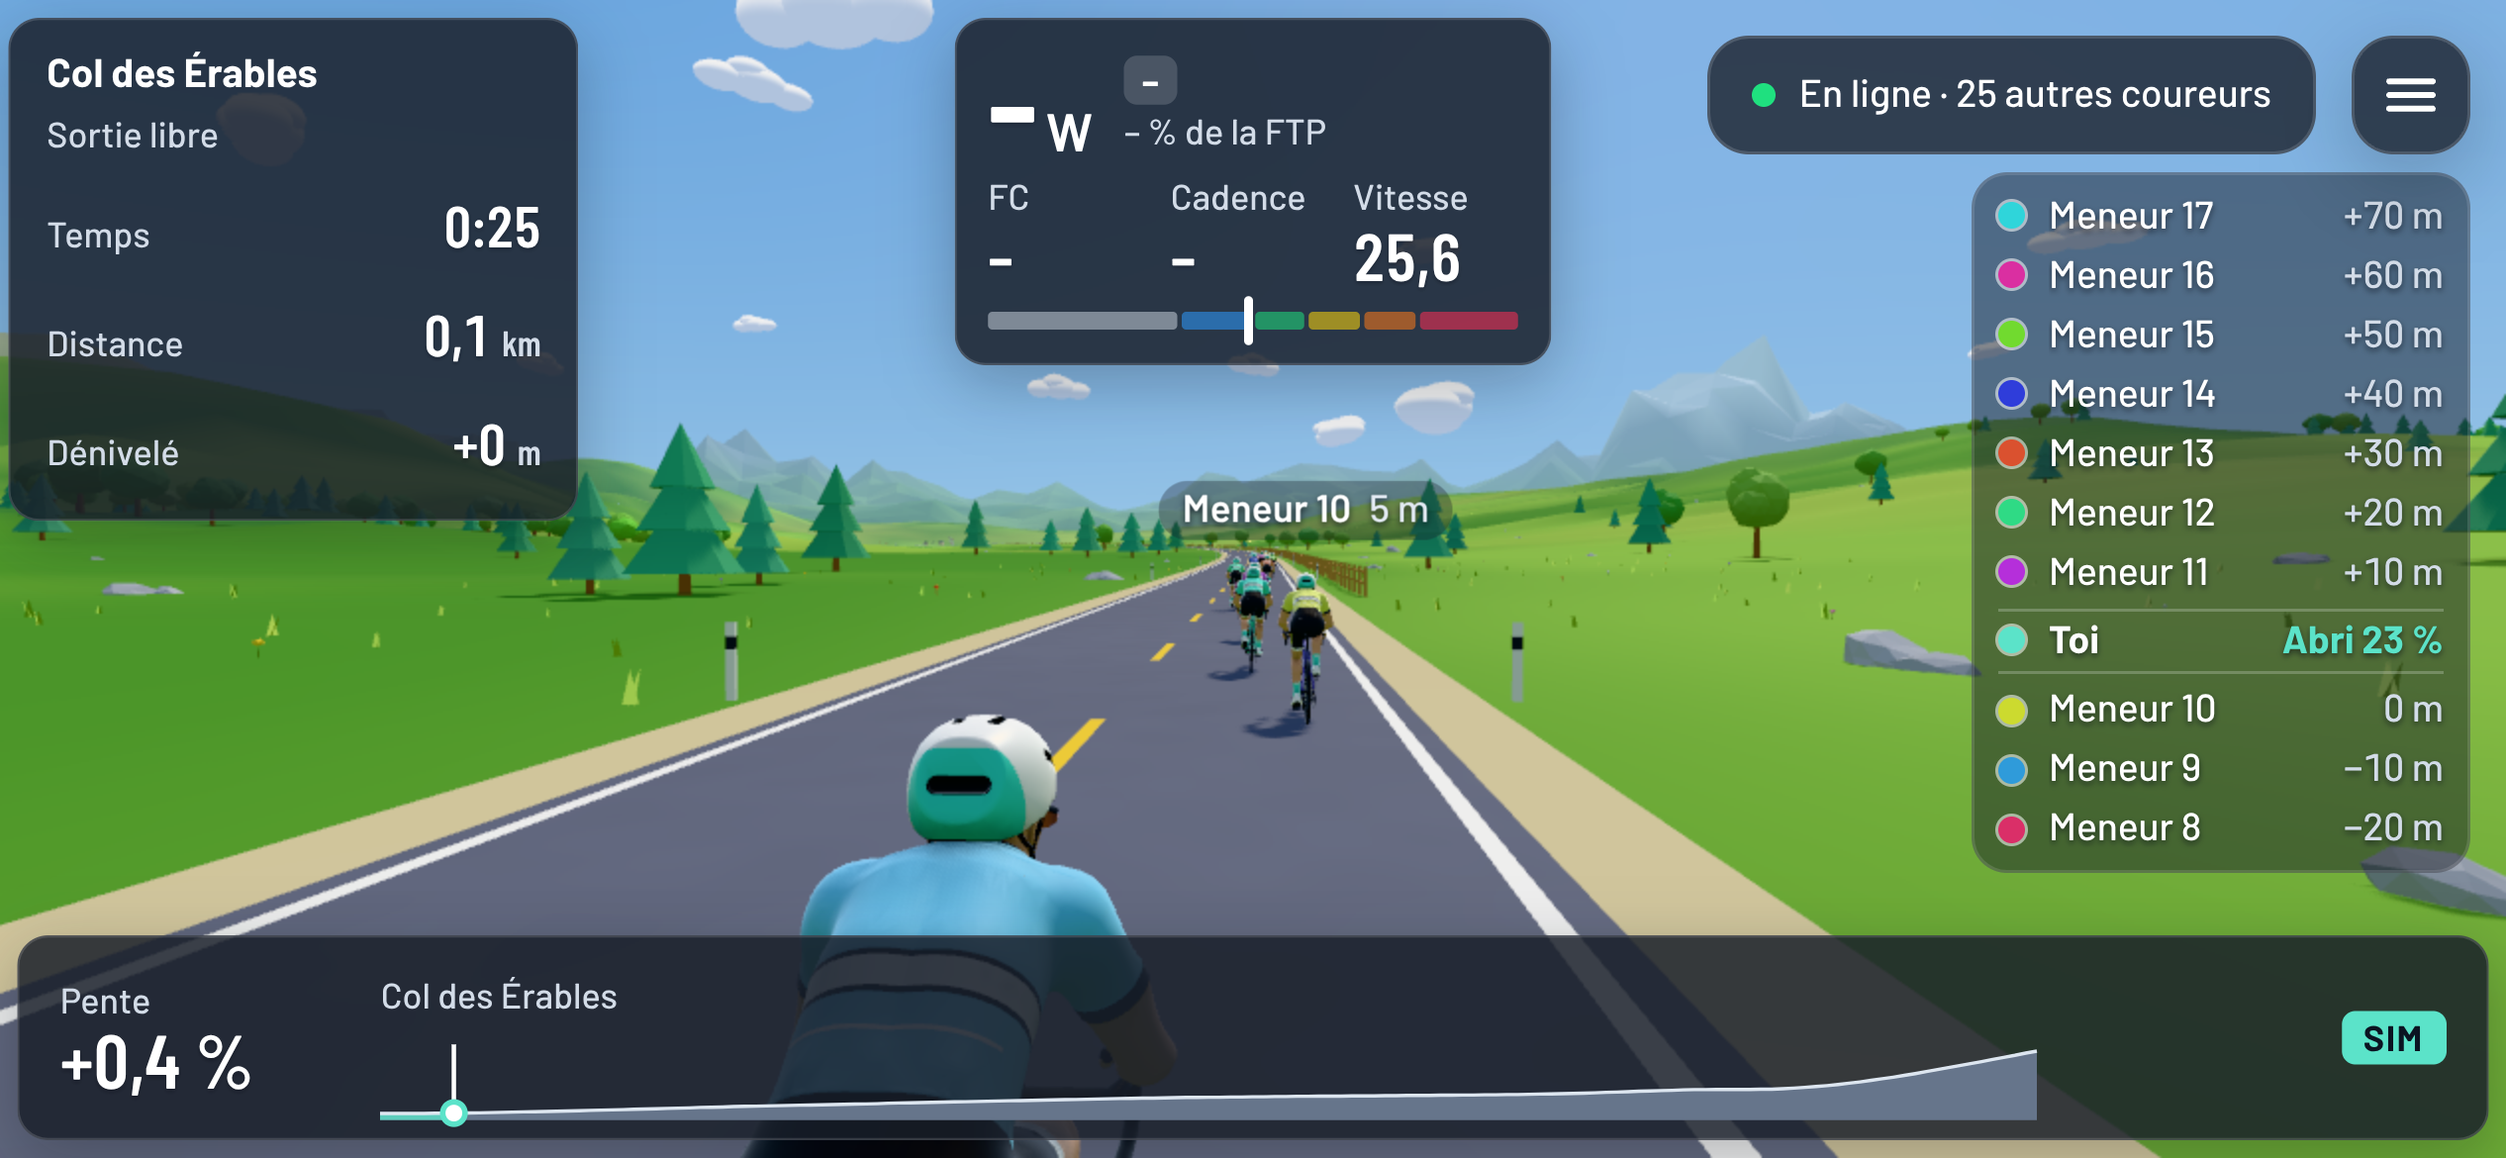
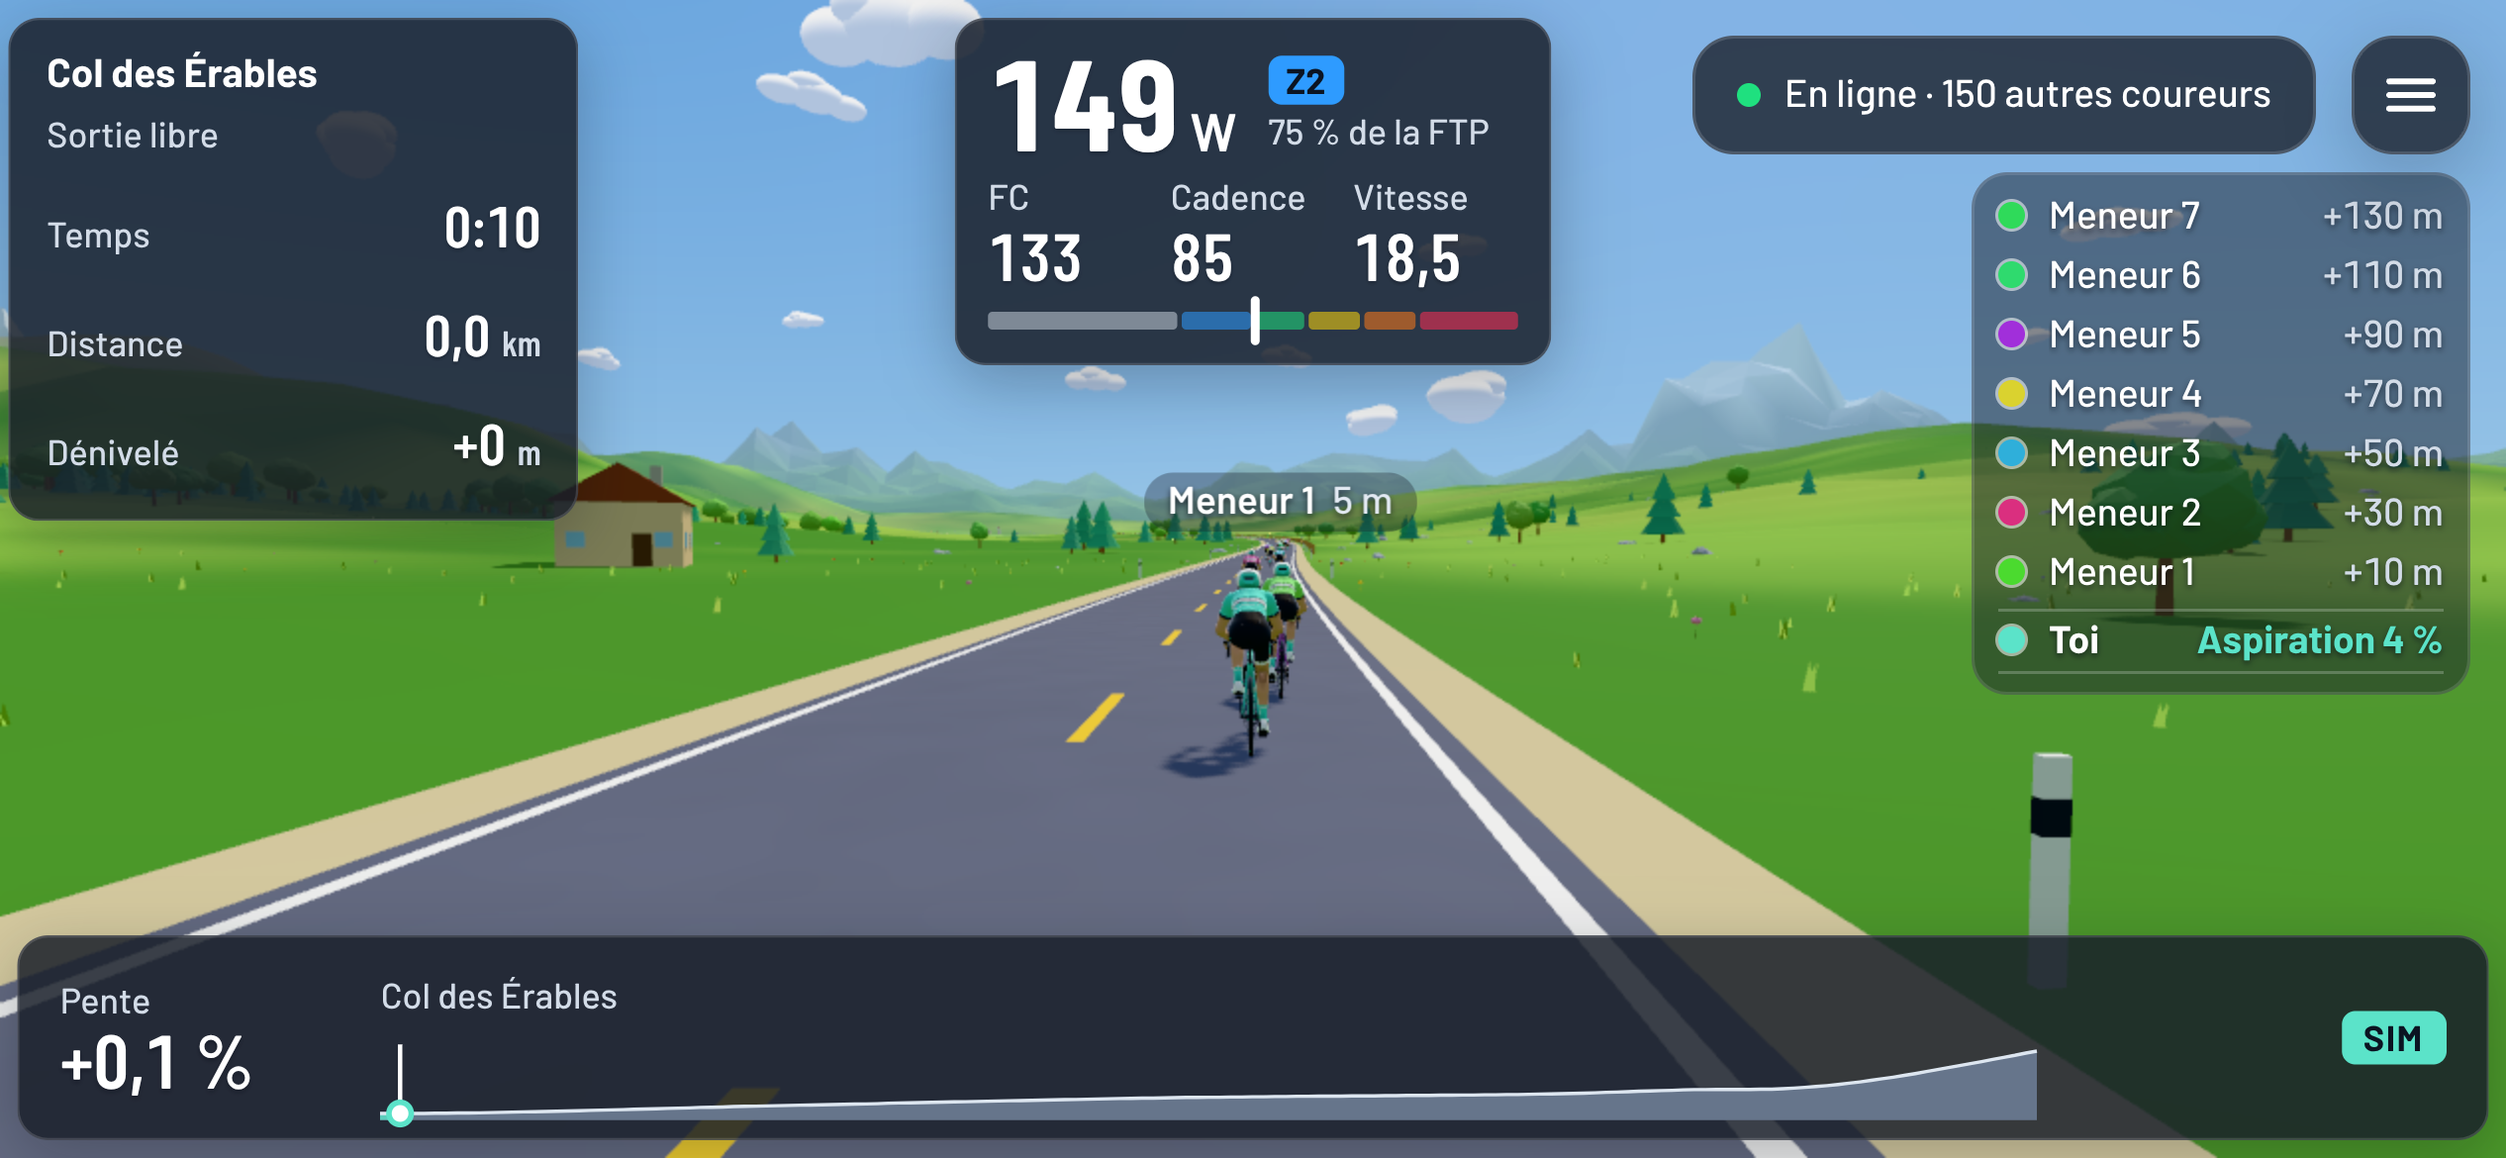
Aspiration : « abri » devient « aspiration » partout (affichage, code, tests, docs)
L'encart des proches affiche « Aspiration N % ». Capture refaite avec 150 coureurs en ligne (gestion d'intérêt active).

Claude-Session: https://claude.ai/code/session_01Fve4RrG8r9RJRgLhDurVGg

diff --git a/src/sim/draft.test.ts b/src/sim/draft.test.ts
@@ -9,7 +9,7 @@ const self = { x: 0, z: 0, heading: 0 };
 const leader = (over: Partial<DraftLeader> = {}): DraftLeader => ({ x: 4, z: 0, heading: 0, speedMs: 9, riding: true, ...over });
 
 describe('draftFrom', () => {
-  it('abrite un coureur placé juste devant, d’autant plus qu’il est proche', () => {
+  it('profite d’un coureur placé juste devant, d’autant plus qu’il est proche', () => {
     const near = draftFrom(self, [leader({ x: 3 })]);
     const far = draftFrom(self, [leader({ x: 12 })]);
     expect(near.reduction).toBeGreaterThan(0.25);
@@ -19,7 +19,7 @@ describe('draftFrom', () => {
     expect(near.gapM).toBeCloseTo(3 - 1.8, 5);
   });
 
-  it('ne protège pas : derrière, à côté, trop loin, à contresens, à l’arrêt ou immobile', () => {
+  it('ne profite pas : derrière, à côté, trop loin, à contresens, à l’arrêt ou immobile', () => {
     expect(draftFrom(self, [leader({ x: -4 })]).reduction).toBe(0); // derrière
     expect(draftFrom(self, [leader({ x: 6, z: 4 })]).reduction).toBe(0); // dans une autre file
     expect(draftFrom(self, [leader({ x: DRAFT_RANGE_M + 1 })]).reduction).toBe(0); // trop loin
@@ -29,7 +29,7 @@ describe('draftFrom', () => {
     expect(draftFrom(self, [])).toEqual({ reduction: 0 });
   });
 
-  it('prend le meilleur abri parmi plusieurs coureurs, sans les additionner', () => {
+  it('prend la meilleure aspiration parmi plusieurs coureurs, sans les additionner', () => {
     const one = draftFrom(self, [leader({ x: 4 })]).reduction;
     const two = draftFrom(self, [leader({ x: 4 }), leader({ x: 7 })]).reduction;
     expect(two).toBe(one);
@@ -42,7 +42,7 @@ describe('draftFrom', () => {
   });
 });
 
-describe('physique avec abri', () => {
+describe('physique avec aspiration', () => {
   const p = DEFAULT_RIDER;
 
   it('ne change que la part de l’air', () => {
@@ -50,18 +50,18 @@ describe('physique avec abri', () => {
     const drafted = resistanceForce(10, 0, p, 0, 0.3);
     const air = 0.5 * p.airDensity * p.cdA * 100;
     expect(flat - drafted).toBeCloseTo(0.3 * air, 6);
-    // En forte côte, à faible vitesse, l'air pèse peu : l'abri aide peu (c'est le comportement attendu).
+    // En forte côte, à faible vitesse, l'air pèse peu : l'aspiration aide peu (c'est le comportement attendu).
     const climb = resistanceForce(2, 10, p);
     expect((climb - resistanceForce(2, 10, p, 0, 0.3)) / climb).toBeLessThan(0.02);
   });
 
   it('fait rouler plus vite à puissance égale, sur le plat surtout', () => {
     const solo = steadySpeed(250, 0, p);
-    const abri = steadySpeed(250, 0, p, 0.3);
-    expect(abri).toBeGreaterThan(solo * 1.1);
+    const aspire = steadySpeed(250, 0, p, 0.3);
+    expect(aspire).toBeGreaterThan(solo * 1.1);
     let v = solo;
     for (let i = 0; i < 2000; i++) v = step(v, 250, 0, 0.05, p, 0, 0, 0.3).v;
-    expect(v).toBeCloseTo(abri, 1);
+    expect(v).toBeCloseTo(aspire, 1);
   });
 
   it('borne la réduction entre 0 et 1', () => {
@@ -70,10 +70,10 @@ describe('physique avec abri', () => {
   });
 });
 
-describe('Ride avec abri', () => {
+describe('Ride avec aspiration', () => {
   const flat: Course = { gradeAt: () => 0, altitudeAt: () => 0 } as unknown as Course;
 
-  it('avance plus loin avec abri ; une réduction négative est sans effet', () => {
+  it('avance plus loin avec aspiration ; une réduction négative est sans effet', () => {
     const run = (draft: number) => {
       const r = new Ride(flat);
       r.setDraft(draft);

diff --git a/src/sim/draft.ts b/src/sim/draft.ts
@@ -1,6 +1,6 @@
 /**
  * Aspiration : derrière un autre coureur, on économise une part de la traînée de l'air. Calcul pur, du côté de chaque
- * client (le serveur ne simule rien) : le coureur local regarde les autres qu'il reçoit et en déduit son abri.
+ * client (le serveur ne simule rien) : le coureur local regarde les autres qu'il reçoit et en déduit son aspiration.
  *
  * Modèle simple, tiré des ordres de grandeur de la littérature (souffleries et simulations de peloton : environ 30 à
  * 40 % de traînée en moins pour le deuxième coureur à une roue d'écart, de l'ordre de 10 % vers 10 m, négligeable
@@ -16,7 +16,7 @@
 export const DRAFT_MAX = 0.35;
 /** Décroissance avec l'écart, en m. */
 export const DRAFT_DECAY_M = 6;
-/** Au-delà, pas d'abri, en m (de centre à centre). */
+/** Au-delà, pas d'aspiration, en m (de centre à centre). */
 export const DRAFT_RANGE_M = 25;
 /** Écart latéral toléré avec la trajectoire du meneur, en m : même file sur la même route. */
 export const DRAFT_LATERAL_M = 2.5;
@@ -42,7 +42,7 @@ export interface DraftLeader extends DraftSelf {
 export interface Draft {
   /** Part de la traînée épargnée, 0 à `DRAFT_MAX`. */
   reduction: number;
-  /** Écart de roues avec le meneur, en m ; `undefined` sans abri. */
+  /** Écart de roues avec le meneur, en m ; `undefined` sans aspiration. */
   gapM?: number;
 }
 
@@ -52,7 +52,7 @@ const wrapPi = (a: number) => {
   return x - Math.PI;
 };
 
-/** Abri d'un coureur placé en `self`, vis-à-vis des autres : le meilleur parmi ceux qui roulent juste devant lui. */
+/** Aspiration d'un coureur placé en `self`, vis-à-vis des autres : le meilleur parmi ceux qui roulent juste devant lui. */
 export function draftFrom(self: DraftSelf, others: readonly DraftLeader[]): Draft {
   const fx = Math.cos(self.heading);
   const fz = Math.sin(self.heading);

diff --git a/src/sim/physics.ts b/src/sim/physics.ts
@@ -4,7 +4,7 @@
  *   η P = v (m g Crr cosθ + m g sinθ + ½ ρ CdA (v + vw)²) + m v dv/dt
  *
  * Aucune dépendance au DOM ni à l'horloge : mêmes entrées, mêmes sorties, côté client comme côté serveur.
- * L'aspiration (abri derrière un autre coureur) réduit la part de l'air (`draft`, voir `draft.ts`). Pas inclus à ce stade :
+ * L'aspiration (derrière un autre coureur) réduit la part de l'air (`draft`, voir `draft.ts`). Pas inclus à ce stade :
  * inertie des roues, limite d'adhérence.
  */
 export interface RiderParams {
@@ -35,7 +35,7 @@ const V_MIN = 1;
 
 /**
  * Résistance à l'avancement (N) à la vitesse v, pente en %, vent de face positif en m/s. `draft` (0 à 1) est la part de la
- * traînée de l'air qu'épargne l'abri derrière un autre coureur ; le roulement et la gravité n'en dépendent pas.
+ * traînée de l'air qu'épargne l'aspiration derrière un autre coureur ; le roulement et la gravité n'en dépendent pas.
  */
 export function resistanceForce(v: number, gradePct: number, p: RiderParams, headwindMs = 0, draft = 0): number {
   const theta = Math.atan(gradePct / 100);

diff --git a/src/ui/near-riders.ts b/src/ui/near-riders.ts
@@ -6,10 +6,10 @@ const EVERY_MS = 250;
 /** Couleur du point d'un coureur : celle de son maillot dans la vue 3D. */
 const dotColor = (slot: number) => `hsl(${Math.round(hueOf(slot) * 360)} 70% 52%)`;
 
-/** « Abri 22 % » à partir de 3 % d'air épargné ; rien en dessous (un abri trop faible ne se sent pas). */
+/** « Aspiration 22 % » à partir de 3 % d'air épargné ; rien en dessous (une aspiration trop faible ne se sent pas). */
 export function draftText(draft: number): string {
   const pct = Math.round(draft * 100);
-  return pct >= 3 ? `Abri ${pct} %` : '';
+  return pct >= 3 ? `Aspiration ${pct} %` : '';
 }
 
 interface Row {
@@ -34,7 +34,7 @@ export class NearRiders {
     host.append(this.list);
   }
 
-  /** `draft` : part de la traînée de l'air épargnée par l'abri (0 à 1), montrée sur la ligne du joueur. */
+  /** `draft` : part de la traînée de l'air épargnée par l'aspiration (0 à 1), montrée sur la ligne du joueur. */
   set(n: NearbyRiders, draft = 0, now = performance.now()): void {
     if (now - this.last < EVERY_MS) return;
     this.last = now;

diff --git a/src/ui/sortie.css b/src/ui/sortie.css
@@ -187,7 +187,7 @@ html[data-notch='left'] .ride { --edge-r: 12px; }
 /* Le joueur : repère au milieu de la liste, un trait au-dessus et au-dessous. */
 .rn-me { font-weight: 700; margin: 2px 0; padding: 2px 0; border-block: 1px solid rgb(255 255 255 / .22); }
 .rn-me .rn-dot { background: #5BE3C9; }
-.rn-drafting .rn-gap { color: #5BE3C9; font-weight: 700; } /* abri : l'air épargné derrière le coureur de devant */
+.rn-drafting .rn-gap { color: #5BE3C9; font-weight: 700; } /* aspiration : l'air épargné derrière le coureur de devant */
 @media (pointer: coarse) and (orientation: landscape) and (max-height: 600px) {
   .ride-near { top: calc(var(--edge-t) + 46px); right: var(--edge-r); width: 168px; padding: 4px 8px; }
   /* Commandes de séance ou sélecteur de vitesse affichés : ils occupent la colonne du bord, l'encart passe à leur gauche. */

diff --git a/src/main.ts b/src/main.ts
@@ -281,10 +281,10 @@ const fmtTime = (s: number) => formatDuration(Math.floor(s));
 /** Les protocoles portent la pente au centième de pourcent. */
 const round2 = (x: number) => Math.round(x * 100) / 100;
 
-/** Part de la traînée de l'air épargnée en ce moment par l'abri derrière un autre coureur (0 : seul). */
+/** Part de la traînée de l'air épargnée en ce moment par l'aspiration derrière un autre coureur (0 : seul). */
 let currentDraft = 0;
 
-/** Abri derrière les coureurs que la salle montre : recalculé à chaque pas, avec la position du coureur local. */
+/** Aspiration derrière les coureurs que la salle montre : recalculé à chaque pas, avec la position du coureur local. */
 function updateDraft(distanceM: number) {
   const others = world.riders();
   if (!ride || others.length === 0) {

diff --git a/src/ui/near-riders.test.ts b/src/ui/near-riders.test.ts
@@ -2,11 +2,11 @@ import { describe, expect, it } from 'vitest';
 import { draftText } from './near-riders';
 
 describe('draftText', () => {
-  it('montre l’abri à partir de 3 % d’air épargné, arrondi', () => {
+  it('montre l’aspiration à partir de 3 % d’air épargné, arrondi', () => {
     expect(draftText(0)).toBe('');
     expect(draftText(0.02)).toBe('');
-    expect(draftText(0.03)).toBe('Abri 3 %');
-    expect(draftText(0.224)).toBe('Abri 22 %');
-    expect(draftText(0.35)).toBe('Abri 35 %');
+    expect(draftText(0.03)).toBe('Aspiration 3 %');
+    expect(draftText(0.224)).toBe('Aspiration 22 %');
+    expect(draftText(0.35)).toBe('Aspiration 35 %');
   });
 });

diff --git a/src/sim/ride.ts b/src/sim/ride.ts
@@ -43,7 +43,7 @@ export class Ride {
   ) {}
 
   /**
-   * Part de la traînée de l'air épargnée par l'abri derrière un autre coureur (0 à 1), à rafraîchir quand les autres
+   * Part de la traînée de l'air épargnée par l'aspiration derrière un autre coureur (0 à 1), à rafraîchir quand les autres
    * bougent. Elle reste appliquée aux pas suivants : mettre 0 pour la rouler seul.
    */
   setDraft(reduction: number): void {

diff --git a/docs/design/salle.md b/docs/design/salle.md
@@ -52,17 +52,17 @@ Derrière un autre coureur, on économise une part de la **traînée de l'air** 
 
 Les ordres de grandeur viennent de la littérature (soufflerie et simulation de peloton : environ 30 à 40 % de traînée en moins pour le deuxième coureur à une roue, de l'ordre de 10 % vers 10 m). **Ce ne sont pas des mesures de notre part : à régler à l'usage.**
 
-Qui compte comme meneur ([`draft.ts`](../../src/sim/draft.ts)) : un coureur dont la sortie est en cours, plus rapide que 2 m/s, **devant** à moins de 25 m, dans la même file (écart latéral d'au plus 2,5 m), allant dans le même sens (écart de cap d'au plus 30°). Seul le meilleur abri compte : pas de bonus de file, pas de vent.
+Qui compte comme meneur ([`draft.ts`](../../src/sim/draft.ts)) : un coureur dont la sortie est en cours, plus rapide que 2 m/s, **devant** à moins de 25 m, dans la même file (écart latéral d'au plus 2,5 m), allant dans le même sens (écart de cap d'au plus 30°). Seule la meilleure aspiration compte : pas de bonus de file, pas de vent.
 
 Effets :
 
-- À 250 W sur le plat (coureur de 80 kg, calcul du modèle), 30 % d'air en moins fait passer de 37,1 à 41,5 km/h ; à 150 W, de 30,7 à 34,2 km/h. En côte raide, l'air pèse peu : l'abri aide peu (à 2 m/s en 10 %, moins de 2 % de la résistance).
+- À 250 W sur le plat (coureur de 80 kg, calcul du modèle), 30 % d'air en moins fait passer de 37,1 à 41,5 km/h ; à 150 W, de 30,7 à 34,2 km/h. En côte raide, l'air pèse peu : l'aspiration aide peu (à 2 m/s en 10 %, moins de 2 % de la résistance).
 - Le trainer n'est pas touché : sa résistance suit la pente (SIM) ou la consigne (ERG) ; seule la vitesse virtuelle change, comme dans les autres applications.
-- L'encart des proches montre « Abri 23 % » en vert sur la ligne « Toi » à partir de 3 %.
-- Rien n'est envoyé au serveur : l'abri est une conséquence de ce que chaque client voit.
+- L'encart des proches montre « Aspiration 23 % » en vert sur la ligne « Toi » à partir de 3 %.
+- Rien n'est envoyé au serveur : l'aspiration est une conséquence de ce que chaque client voit.
 
-Pas fait (volontairement) : aspiration à plusieurs de front ou en file longue, vent, abri des coureurs de devant par une route différente (carrefour : le cap et l'écart latéral le gèrent grossièrement), et tout contrôle côté serveur (un client qui tricherait sur sa vitesse est borné par `MAX_SPEED_MS`).
+Pas fait (volontairement) : aspiration à plusieurs de front ou en file longue, vent, aspiration derrière les coureurs de devant par une route différente (carrefour : le cap et l'écart latéral le gèrent grossièrement), et tout contrôle côté serveur (un client qui tricherait sur sa vitesse est borné par `MAX_SPEED_MS`).
 
 | | |
 |---|---|
-| Abri derrière des coureurs devant, téléphone couché 844 × 390 (25 coureurs sur place) | ![](captures/aspiration-ordinateur-telephone.png) |
+| Aspiration derrière des coureurs devant, téléphone couché 844 × 390 (150 coureurs sur place : l’encart n’en montre que 7 devant) | ![](captures/aspiration-ordinateur-telephone.png) |

diff --git a/docs/design/compte.md b/docs/design/compte.md
@@ -35,7 +35,7 @@ Référence permanente du compte : connexion avec Strava, nom montré aux autres
 - Code : [`src/render/others.ts`](../../src/render/others.ts) (coureurs dans la scène), [`others-model.ts`](../../src/render/others-model.ts) (voie, noms sans chevauchement), [`src/ui/rider-tags.ts`](../../src/ui/rider-tags.ts) (étiquettes et pastille).
 - Les 16 plus proches, à moins de 220 m, sont dessinés ; leur nom et leur distance s'affichent jusqu'à 140 m, six étiquettes au plus, le plus proche gardant la sienne quand deux se recouvrent. Teinte du maillot et du vélo selon la place dans la salle.
 - Encart des coureurs proches, au bord droit sous le bouton du menu (sur téléphone couché, à gauche de la colonne de boutons) : jusqu'à **7 coureurs devant**, « Toi », puis **3 derrière**, de l'avant vers l'arrière, avec un point de la couleur de leur maillot et l'écart à vol d'oiseau (+45 m, −140 m ; par 5 m, puis en km). « Devant » se décide par le cap du joueur ; portée 1,5 km. Les pistes des coureurs n'ont pas de repère commun : un écart de trajet n'existe pas. Verre léger, sans toucher. Code : [`near-riders.ts`](../../src/ui/near-riders.ts), calcul dans `others-model.ts` (`nearby`).
-- **Aspiration** : la ligne « Toi » affiche « Abri N % » en vert quand un coureur juste devant (même file, moins de 25 m) épargne de l'air ; détails et modèle dans [salle.md](salle.md). Au-delà de 33 coureurs, la salle n'envoie à chacun que ses 32 voisins les plus proches (1,5 km), de quoi remplir l'encart.
+- **Aspiration** : la ligne « Toi » affiche « Aspiration N % » en vert quand un coureur juste devant (même file, moins de 25 m) épargne de l'air ; détails et modèle dans [salle.md](salle.md). Au-delà de 33 coureurs, la salle n'envoie à chacun que ses 32 voisins les plus proches (1,5 km), de quoi remplir l'encart.
 - Étiquettes de nom : fond à 34 % d'opacité et ombre portée du texte, pour rester discrètes (72 % avant le 17 novembre).
 - Pastille à gauche du bouton du menu : « En ligne · N autres coureurs », cachée sans compte. Texte de 13 px (le minimum du projet est 12 px).
 
